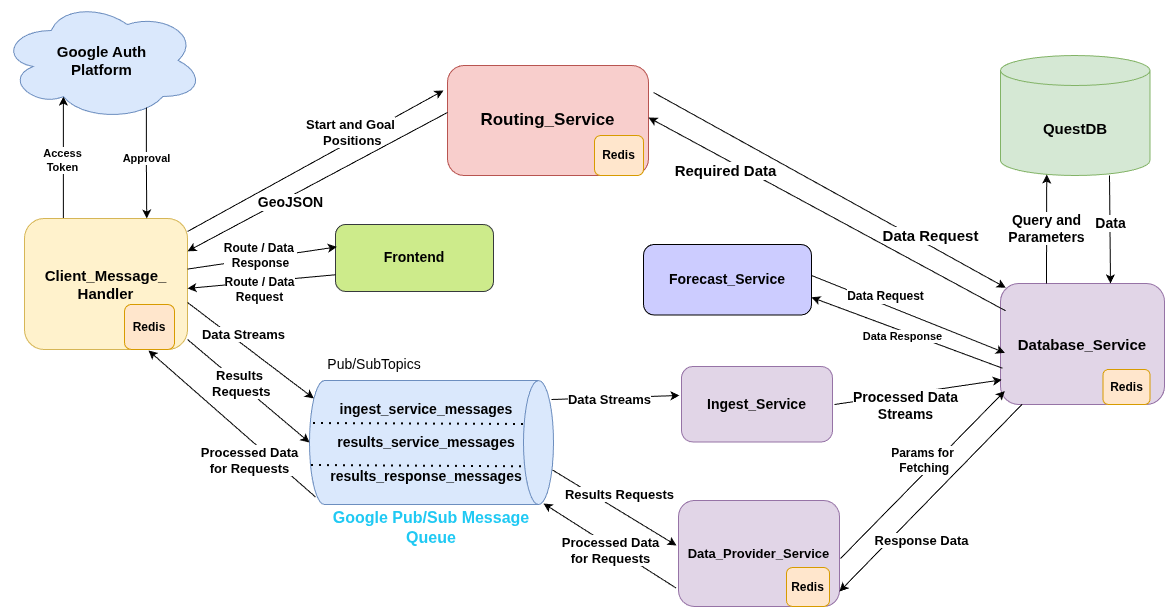
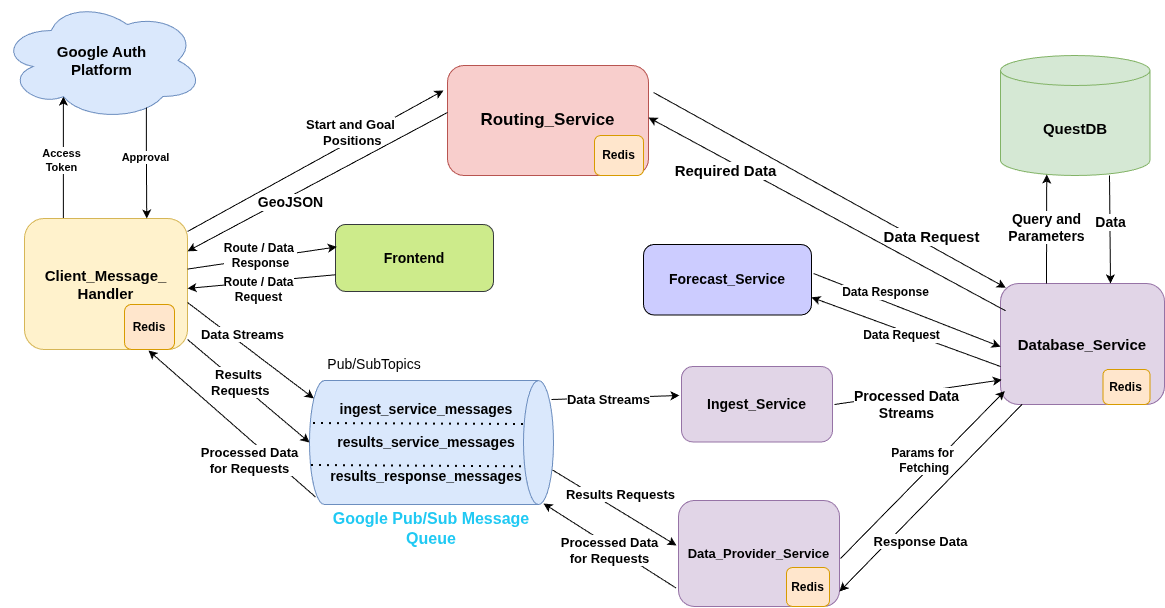
csv fix

diff --git a/backend/config/questdb/import_from_csv.py b/backend/config/questdb/import_from_csv.py
@@ -17,17 +17,23 @@ def parse_timestamp(ts_str):
     if not ts_str:
         return None
     
+    ts_str = ts_str.strip()
+    
+    # Handle Z suffix (UTC)
+    if ts_str.endswith('Z'):
+        ts_str = ts_str[:-1]
+    
     formats = [
-        '%Y-%m-%d %H:%M:%S',
+        '%Y-%m-%dT%H:%M:%S.%f',
         '%Y-%m-%dT%H:%M:%S',
         '%Y-%m-%d %H:%M:%S.%f',
-        '%Y-%m-%dT%H:%M:%S.%f',
+        '%Y-%m-%d %H:%M:%S',
         '%Y-%m-%d',
     ]
     
     for fmt in formats:
         try:
-            return datetime.strptime(ts_str.strip(), fmt)
+            return datetime.strptime(ts_str, fmt)
         except ValueError:
             continue
     
